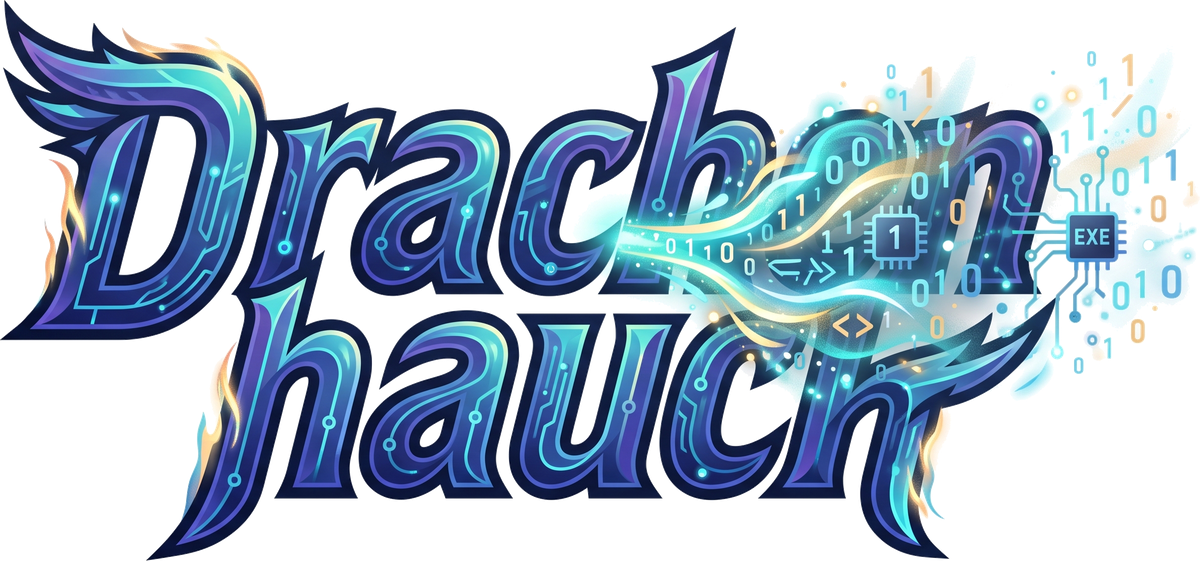
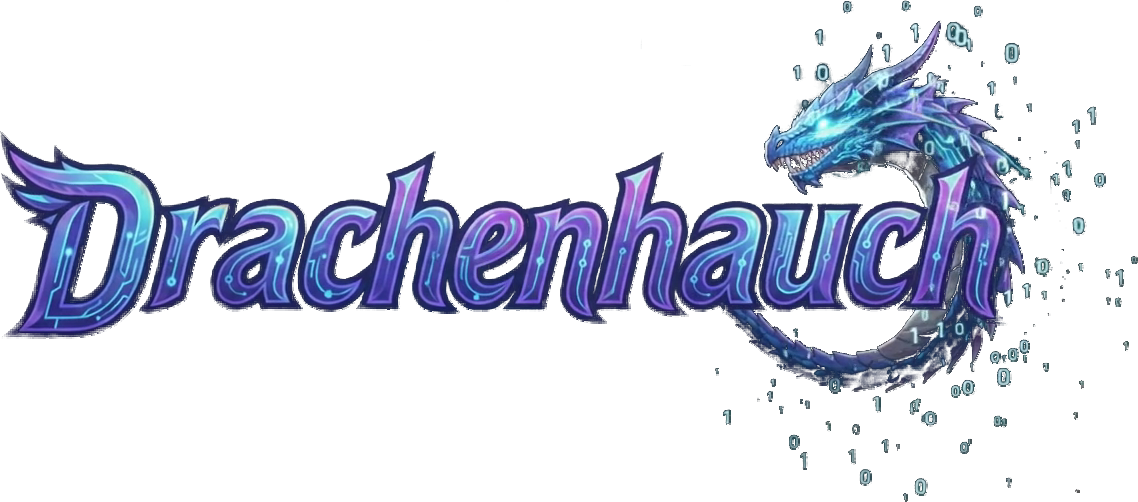
Neuer Schriftzug aus dem letzten Vorspann-Bild, Baum-Kaestchen nur auf Wunsch, IMAGE_COLOR_TO_ALPHA
- daten/bilder/schriftzug.png: letztes Bild von vorspann_2.mp4, mit weicher
  Helligkeitsmaske freigestellt (PNG mit Alpha, 1138x502); erzeugt von
  tools/schriftzug.dh. Die IDE passt ihn unverzerrt in seinen Kasten ein.
- Projektbaum: Kaestchen nur auf Wunsch (Datei-Menue, Einstellungen,
  Palette; `baum_haken` in der ide.json). Ausblenden nimmt die Haken weg.
- Neu IMAGE_COLOR_TO_ALPHA(bild, farbe [, schwelle]) wie "Farbe zu Alpha"
  in GIMP (leinwand::farbe_zu_alpha mit Rust-Tests).

diff --git a/rust/drachenhauch_runtime/src/leinwand.rs b/rust/drachenhauch_runtime/src/leinwand.rs
@@ -316,6 +316,71 @@ impl NaechsteZahl for f32 {
     }
 }
 
+/// Eine Hintergrundfarbe in Durchsichtigkeit verwandeln (IMAGE_COLOR_TO_ALPHA),
+/// wie "Farbe zu Alpha" in GIMP: jeder Punkt wird als Mischung aus `bg` und
+/// einer Vordergrundfarbe gedeutet, die Deckkraft ist der kleinste Anteil,
+/// der reicht, und die Farbe wird "entmischt". Ueber `bg` gelegt ergibt das
+/// Ergebnis also wieder genau das Bild -- aber ein weicher Schein bleibt
+/// ein weicher Schein, statt als dunkler Rand stehen zu bleiben, wie bei einem
+/// harten Freistellen. `schwelle` (0..1) nimmt schwache Reste weg: was darunter
+/// liegt, wird ganz durchsichtig, darueber wird auf 0..1 gestreckt.
+/// `px` ist RGBA, eine vorhandene Deckkraft wird mitgenommen.
+pub fn farbe_zu_alpha(px: &mut [u8], bg: [u8; 3], schwelle: f32) {
+    let s = schwelle.clamp(0.0, 0.99);
+    let b = [bg[0] as f32 / 255.0, bg[1] as f32 / 255.0, bg[2] as f32 / 255.0];
+    for p in px.chunks_exact_mut(4) {
+        let c = [p[0] as f32 / 255.0, p[1] as f32 / 255.0, p[2] as f32 / 255.0];
+        let mut a = 0.0f32;
+        for i in 0..3 {
+            let t = if c[i] > b[i] { (c[i] - b[i]) / (1.0 - b[i]).max(1e-6) }
+                    else if c[i] < b[i] { (b[i] - c[i]) / b[i].max(1e-6) }
+                    else { 0.0 };
+            a = a.max(t);
+        }
+        let a = a.min(1.0);
+        if a > 0.0 {
+            for i in 0..3 {
+                let v = ((c[i] - b[i]) / a + b[i]).clamp(0.0, 1.0);
+                p[i] = (v * 255.0).round() as u8;
+            }
+        }
+        let a2 = if s > 0.0 { ((a - s) / (1.0 - s)).clamp(0.0, 1.0) } else { a };
+        p[3] = (a2 * p[3] as f32).round() as u8;
+    }
+}
+
+#[cfg(test)]
+mod farbe_alpha_tests {
+    use super::farbe_zu_alpha;
+
+    #[test]
+    fn hintergrund_wird_durchsichtig_und_mischungen_halb() {
+        // schwarz auf schwarz, weiss auf schwarz, halbes grau auf schwarz
+        let mut px = vec![0, 0, 0, 255,  255, 255, 255, 255,  128, 128, 128, 255];
+        farbe_zu_alpha(&mut px, [0, 0, 0], 0.0);
+        assert_eq!(px[3], 0);
+        assert_eq!(&px[4..8], &[255, 255, 255, 255]);
+        // Grau = weiss mit halber Deckkraft.
+        assert_eq!(&px[8..11], &[255, 255, 255]);
+        assert!((px[11] as i32 - 128).abs() <= 1);
+    }
+
+    #[test]
+    fn schwelle_nimmt_schwache_reste_weg() {
+        let mut px = vec![20, 20, 20, 255,  255, 255, 255, 255];
+        farbe_zu_alpha(&mut px, [0, 0, 0], 0.15);
+        assert_eq!(px[3], 0);
+        assert_eq!(px[7], 255);
+    }
+
+    #[test]
+    fn vorhandene_deckkraft_bleibt_anteilig() {
+        let mut px = vec![255, 0, 0, 100];
+        farbe_zu_alpha(&mut px, [0, 0, 0], 0.0);
+        assert_eq!(px[3], 100);
+    }
+}
+
 #[cfg(test)]
 mod tests {
     use super::*;

diff --git a/rust/drachenhauch_runtime/src/vm.rs b/rust/drachenhauch_runtime/src/vm.rs
@@ -10154,6 +10154,13 @@ wie viele Plaetze gelten", i + 1)),
             "image_contrast" => Value::Int(g!().image_contrast(gi(a,0,"IMAGE_CONTRAST")?, need_f(a,1,"IMAGE_CONTRAST")? as f32)?),
             "image_grayscale" => Value::Int(g!().image_grayscale(gi(a,0,"IMAGE_GRAYSCALE")?)?),
             "image_invert" => Value::Int(g!().image_invert(gi(a,0,"IMAGE_INVERT")?)?),
+            "image_color_to_alpha" => {
+                const F: &str = "IMAGE_COLOR_TO_ALPHA";
+                if a.len() != 2 && a.len() != 3 { return Err(format!("{}: erwartet (bild, farbe [, schwelle])", F)); }
+                let s = if a.len() == 3 { need_f(a, 2, F)? as f32 } else { 0.0 };
+                if !(0.0..1.0).contains(&s) { return Err(format!("{}: die Schwelle liegt zwischen 0 und 1 (nicht {})", F, s)); }
+                Value::Int(g!().image_color_to_alpha(gi(a, 0, F)?, gi(a, 1, F)?, s)?)
+            }
             "image_replace_color" => Value::Int(g!().image_replace_color(gi(a,0,"IMAGE_REPLACE_COLOR")?, gi(a,1,"IMAGE_REPLACE_COLOR")?, gi(a,2,"IMAGE_REPLACE_COLOR")?)?),
             "image_draw_line" => { g!().image_draw_line(gi(a,0,"IMAGE_DRAW_LINE")?, gi(a,1,"IMAGE_DRAW_LINE")? as i32, gi(a,2,"IMAGE_DRAW_LINE")? as i32, gi(a,3,"IMAGE_DRAW_LINE")? as i32, gi(a,4,"IMAGE_DRAW_LINE")? as i32, gi(a,5,"IMAGE_DRAW_LINE")?)?; Value::Nil }
             "image_draw_circle" => { g!().image_draw_circle(gi(a,0,"IMAGE_DRAW_CIRCLE")?, gi(a,1,"IMAGE_DRAW_CIRCLE")? as i32, gi(a,2,"IMAGE_DRAW_CIRCLE")? as i32, gi(a,3,"IMAGE_DRAW_CIRCLE")? as i32, gi(a,4,"IMAGE_DRAW_CIRCLE")?)?; Value::Nil }

diff --git a/rust/drachenhauch_runtime/src/graphics.rs b/rust/drachenhauch_runtime/src/graphics.rs
@@ -3925,6 +3925,17 @@ moeglich -- bekam {},{},{},{}", r, g, b, al));
         img.color_invert();
         self.push_tex_from_image(img)
     }
+    /// IMAGE_COLOR_TO_ALPHA(bild, farbe [, schwelle]) -> neues Bild (siehe
+    /// `leinwand::farbe_zu_alpha`).
+    pub fn image_color_to_alpha(&mut self, idx: i64, farbe: i64, schwelle: f32) -> Result<i64, String> {
+        let mut img = self.src_image(idx, "IMAGE_COLOR_TO_ALPHA")?;
+        img.set_format(raylib::consts::PixelFormat::PIXELFORMAT_UNCOMPRESSED_R8G8B8A8);
+        let n = (img.width.max(0) as usize) * (img.height.max(0) as usize) * 4;
+        let px: &mut [u8] = unsafe { std::slice::from_raw_parts_mut(img.data as *mut u8, n) };
+        let v = farbe as u32;
+        crate::leinwand::farbe_zu_alpha(px, [((v >> 16) & 0xFF) as u8, ((v >> 8) & 0xFF) as u8, (v & 0xFF) as u8], schwelle);
+        self.push_tex_from_image(img)
+    }
     pub fn image_replace_color(&mut self, idx: i64, from: i64, to: i64) -> Result<i64, String> {
         let mut img = self.src_image(idx, "IMAGE_REPLACE_COLOR")?;
         img.color_replace(col(from), col(to));

diff --git a/docs/ide.md b/docs/ide.md
@@ -70,13 +70,13 @@ kann, steht darunter vollständig, ohne Stände.
 
 | Bereich | Was geht | Kürzel |
 |---|---|---|
-| Start | Willkommensseite, solange kein Reiter offen ist: oben der Drachenhauch-Schriftzug (aus `daten/bilder/` neben `ide/`; das Logo dort wird auch das Fenstersymbol, ohne die Bilder steht der Titel als Text da), Neu, Öffnen, Beispiele, die zuletzt geöffneten Dateien (Doppelklick), die wichtigsten Kürzel. Vor allem anderen läuft der **Vorspann** (jede `.mp4` in `daten/video/`, eingepasst mit schwarzen Rändern): jede Taste und jeder Klick überspringt ihn, das Kreuz beendet die IDE; abschalten mit „Vorspann beim Start“ in den Einstellungen (`vorspann` in der ide.json). **Welcher** läuft, wählt die Klappliste „Welcher Vorspann“ daneben (`vorspann_datei`): jedes Video dort, benannt nach der Datei (`vorspann_2.mp4` heißt „Vorspann 2“), oder „Abwechselnd“ -- dann kommt bei jedem Start der nächste (`vorspann_zuletzt`). [Ansehen] spielt den gewählten gleich ab. Ein neues Video in `daten/video/` legen genügt, damit es in der Liste steht. Die Sitzung kommt beim nächsten Start wieder (offene Dateien, aktiver Reiter), ebenso Thema und Schriftgröße | |
+| Start | Willkommensseite, solange kein Reiter offen ist: oben der Drachenhauch-Schriftzug (aus `daten/bilder/` neben `ide/`; das Logo dort wird auch das Fenstersymbol, ohne die Bilder steht der Titel als Text da), Neu, Öffnen, Beispiele, die zuletzt geöffneten Dateien (Doppelklick), die wichtigsten Kürzel. Vor allem anderen läuft der **Vorspann** (jede `.mp4` in `daten/video/`, eingepasst mit schwarzen Rändern): jede Taste und jeder Klick überspringt ihn, das Kreuz beendet die IDE; abschalten mit „Vorspann beim Start“ in den Einstellungen (`vorspann` in der ide.json). **Welcher** läuft, wählt die Klappliste „Welcher Vorspann“ daneben (`vorspann_datei`): jedes Video dort, benannt nach der Datei (`vorspann_2.mp4` heißt „Vorspann 2“), oder „Abwechselnd“ -- dann kommt bei jedem Start der nächste (`vorspann_zuletzt`). [Ansehen] spielt den gewählten gleich ab. Ein neues Video in `daten/video/` legen genügt, damit es in der Liste steht. Der **Schriftzug** der Willkommensseite und des Info-Fensters (`daten/bilder/schriftzug.png`) ist das letzte Bild von `vorspann_2.mp4`, freigestellt von `tools/schriftzug.dh`; die IDE passt ihn unverzerrt in seinen Kasten ein. Die Sitzung kommt beim nächsten Start wieder (offene Dateien, aktiver Reiter), ebenso Thema und Schriftgröße | |
 | Dateien | Neu, Öffnen, Datei im Projekt öffnen (Wähler mit unscharfem Filter: `spred` findet `189_sprite_editor.dh`; dazu die zuletzt geöffneten), Zuletzt geöffnet (Untermenü), Sichern, Sichern unter, Reiter schließen und wieder öffnen (Strg+Umschalt+T); bis zu 12 Reiter; Rückfrage bei ungesicherten Änderungen; Listing drucken über einen Druckdialog (Drucker, Kopien, **Schriftgröße, Rand, Zeilennummern, nur die Auswahl** -- gemerkt, und die PDF nimmt dieselben) oder als PDF neben die Quelle (Vorgabe: Courier 9 pt, 20 mm Rand, 66 Zeilen je Seite, Zeilennummern, Kopfzeile mit Seitenzahl; die Zeilenbreite wird an der Schrift gemessen) | Strg+N, Strg+O, Strg+Umschalt+O, Strg+S, Strg+W, Strg+Q, Strg+P |
 | Bearbeiten | **Suchleiste** (bleibt offen: Suchfeld mit Weiter/Zurück und Trefferzahl „3 von 12“, Schalter **Groß/klein**, **Ganzes Wort** und **Ausdruck**, alle Treffer im Code eingefärbt; tippen springt zum ersten Treffer, Enter/Umschalt+Enter weiter/zurück, ESC schließt), Ersetzen **einzeln** (ersetzt den markierten Treffer und springt weiter — so sieht man jede Stelle vorher) oder **alle** (ein Schritt für Strg+Z; mit Ausdruck gelten `\1`-Rückverweise, ohne bleibt ein Rückstrich ein Rückstrich), Gehe zu Zeile, Suche im Projekt (alle `.dh` im Projektordner, Treffer unten rechts, Doppelklick öffnet), mit denselben drei Schaltern wie die Suchleiste (sie gelten für Suchen, Ersetzen und Projektsuche gleich), TODO/FIXME-Liste (dieselbe Suche), Befehlspalette (tippen filtert, **Pfeile** wählen, Enter führt aus) | Strg+F, F3, Umschalt+F3, Strg+H, Strg+Umschalt+1, Strg+Alt+Enter, Alt+C, Alt+W, Strg+G, Strg+Umschalt+F, Strg+Umschalt+M, Strg+Umschalt+P |
 | Git | Wer hat das geschrieben (`git blame`, Datum und Person je Zeile), was habe ich geändert (`git diff` farbig im Fenster), Verlauf dieser Datei (`git log`); die geänderten Zeilen tragen eine Marke am Rand (nach dem Sichern neu gefragt, nicht je Bild) | Strg+Umschalt+B, Strg+Umschalt+D |
 | Schreiben | Umbenennen eines Symbols über die ganze Datei (`CODE_RENAME$`: ganze Wörter, Kommentare und Zeichenketten bleiben; ein krummer Name ändert nichts) — und die **Formulare ziehen mit**: eine `.dhform` nennt ihre Rückrufe beim Namen, und wer das Unterprogramm umbenennt und die Datei stehen lässt, hat einen Knopf, der nichts mehr tut, Schnipsel einfügen (13 Gerüste, `\|` sagt wohin die Marke gehört, die Einrückung der Zeile wird übernommen), eine Marke auf jede Fundstelle des Wortes — danach ändert ein Tippen alle; Alt+Klick legt eine Marke dazu, ESC räumt sie weg. Signaturhilfe: steht die Marke in einer Argumentliste, zeigt die Statuszeile die Signatur des Aufrufs und die Nummer des Arguments | Umschalt+F6, Strg+J, Strg+Umschalt+L |
 | Reiter | Jeder Reiter hat ein **Kreuz**, die mittlere Maustaste schließt ihn auch. Trägt er ungesicherte Änderungen, wird gefragt (Sichern / Verwerfen / Abbrechen) — das galt vorher nur beim Beenden, Strg+W nahm sie wortlos mit. **Andere Reiter schließen** lässt nur den vorderen stehen | Strg+W, Strg+Umschalt+W |
-| Dateiliste | **Häkchen schränken das Projekt ein**: ist etwas angehakt, arbeitet jeder Umbau (Umbenennen, Ersetzen im Projekt, Verschieben), die Projektsuche und das Symbolverzeichnis nur auf dieser Menge -- ein angehakter **Ordner** nimmt alles darunter mit (bis 2026-09-27 machte er das Projekt leer); ohne Haken gilt das ganze Projekt. Der Tooltip über dem Baum sagt es — die Beschriftung über dem Baum sagt es, `Datei → Haken im Projektbaum entfernen` räumt sie ab. Der Projektbaum ist seit Stand 24 ein `GUI_FILETREE`: er liest den Ordner selbst und nur die Äste, die offen sind. Ordner stehen oben und klappen auf Klick auf; eine Datei, die ein anderes Programm anlegt, steht nach spätestens zwei Sekunden da. Strg+Klick sammelt, Umschalt+Klick spannt einen Bereich; **Gewaehlte Dateien oeffnen** macht aus allen Reiter. Beim Sammeln geht noch nichts auf — sonst käme mit jedem Klick ein Reiter dazu, den niemand wollte | Strg+Umschalt+E |
+| Dateiliste | **Häkchen schränken das Projekt ein** (nur auf Wunsch sichtbar: `Datei → Kästchen im Projektbaum zeigen`, in den Einstellungen oder in der Palette; `baum_haken` in der ide.json -- beim Ausblenden fallen die Haken weg, eine unsichtbare Einschränkung wäre eine Falle): ist etwas angehakt, arbeitet jeder Umbau (Umbenennen, Ersetzen im Projekt, Verschieben), die Projektsuche und das Symbolverzeichnis nur auf dieser Menge -- ein angehakter **Ordner** nimmt alles darunter mit (bis 2026-09-27 machte er das Projekt leer); ohne Haken gilt das ganze Projekt. Der Tooltip über dem Baum sagt es — die Beschriftung über dem Baum sagt es, `Datei → Haken im Projektbaum entfernen` räumt sie ab. Der Projektbaum ist seit Stand 24 ein `GUI_FILETREE`: er liest den Ordner selbst und nur die Äste, die offen sind. Ordner stehen oben und klappen auf Klick auf; eine Datei, die ein anderes Programm anlegt, steht nach spätestens zwei Sekunden da. Strg+Klick sammelt, Umschalt+Klick spannt einen Bereich; **Gewaehlte Dateien oeffnen** macht aus allen Reiter. Beim Sammeln geht noch nichts auf — sonst käme mit jedem Klick ein Reiter dazu, den niemand wollte | Strg+Umschalt+E |
 | Einstellungen | Strg+U zeigt alle Schalter an einer Stelle (Thema, Umbruch, Karte, geänderte Zeilen, reguläre Ausdrücke, Vorschlagsliste, Einrückungslinien, Gerüst beim Tippen, Vorschau vor dem Umbau, **Klammern schließen**, **beim Sichern formatieren** -- aus per Vorgabe, nur `.dh`, nie beim automatischen Sichern, und was sich nicht lesen lässt, wird gesichert wie es dasteht --, Schriftgröße des Codes, **Schrift der Listen** -- Gliederung, Ausgabe, Probleme, Vorgabe 18 -- und **Schrift des Handbuchs**, Vorgabe 16, automatisches Sichern). Sie wirken **sofort**, ohne Übernehmen — ein Thema, das man erst nach dem Schließen sieht, wählt man blind; im Menü stehen sie weiter dort, wo man sie sucht | Strg+U |
 | Zeilen | Alles auf ganzen Zeilen, der Auswahl oder der Zeile der Marke, jeder Handgriff ein eigener Undo-Schritt: Kommentar umschalten, Zeile duplizieren, Zeile löschen, Zeilen nach oben/unten, Ein-/Ausrücken (Tab gehört dem Feld selbst), Dokument formatieren (`CODE_FORMAT$`, derselbe Formatierer wie `dhrt fmt`; bei einem Syntaxfehler bleibt alles stehen), Schnipsel einfügen (Strg+J füllt den Filter mit dem Wortanfang links der Marke: wer `for` getippt hat, hat die FOR-Schleife vor sich; **oder einfach `for` tippen und Tabulator** — jeder Schnipsel hat ein kurzes Wort, das ihn aufklappt), automatisch sichern nach einstellbarer Ruhe. Eine neue Zeile übernimmt die **Einrückung** der alten und rückt hinter `SUB`, `FOR`, `THEN` und den anderen Blockwörtern eine Stufe weiter ein; ein `END` oder `NEXT` allein in einer Zeile rückt sie zurück. Und das **Gerüst wächst mit**: hinter `IF x > 0 THEN` setzt der Zeilenumbruch das `END IF` gleich mit darunter, die Marke bleibt dazwischen (`CASE`, `ELSE` und `ELSEIF` nicht — sie rücken ein, schließen aber nichts; abschaltbar). Lesezeichen (blaue Marke) setzen und anspringen — vorwärts und rückwärts **über Dateien hinweg**, dazu die Liste aller | Strg+K, Strg+D, Strg+Umschalt+K, Alt+Hoch/Runter, Alt+Rechts/Links, Umschalt+Alt+F, Strg+F2, F2, Umschalt+F2, Alt+F2 |
 | Sprache | Einfärbung des sichtbaren Ausschnitts, dazu jede Fundstelle des Wortes unter der Marke, das zusammengehörende Klammernpaar und ein **Farbfeld** neben jedem `&H`-Literal (ein Klick darauf öffnet den Farbwähler und schreibt die neue Farbe an die Stelle zurück); eine **Symbolspur** über dem Code sagt, in welcher Klasse und welchem Unterprogramm man steht; **Definition hier zeigen** (Alt+F12) blendet zehn Zeilen um die Definition ein, ohne die Stelle zu verlassen; Hilfe zum Wort (Statuszeile), Vervollständigung — sie geht beim Tippen ab drei Zeichen von selbst auf, der Fokus bleibt dabei im Code-Feld, Strg+Leer holt sie herein, und hat der Name eine **Signatur**, kommt sie als Gerüst mit: aus `CIRC` wird `CIRCLE(x, y, r)` mit markiertem `x`, der **Tabulator** geht zum nächsten Argument; Zur Definition, auch per **Strg+Klick** (solange Strg gehalten ist, zeigt der Zeiger über einem Wort die Hand; gesprungen wird beim Loslassen); **Tooltip beim Überfahren**: verweilt die Maus auf einem Wort, steht dessen Hilfe daneben -- dieselbe wie für das Wort unter der Marke, umbrochen und gekürzt, hinter dem Zeilenende keine; Gliederung links unten (SUB/FUNCTION/CLASS mit Methoden, Doppelklick springt; die Art steht in der Farbe der Schlüsselwörter, der Name in der der Namen). **Die Codefarben hängen am Thema**: das helle Thema hat seine eigenen, dunkleren Töne, sonst stünden hellgelbe Zeichenketten auf Weiß | Strg+Leer, F12, Strg+Klick |

diff --git a/docs/module-imgfx.md b/docs/module-imgfx.md
@@ -31,6 +31,7 @@ IMPORT "imgfx"
 | `IMAGE_GRAYSCALE(img)` | IMAGE (neu, in Graustufen) |
 | `IMAGE_INVERT(img)` | IMAGE (neu, Farben invertiert) |
 | `IMAGE_REPLACE_COLOR(img, from, to)` | IMAGE (neu): tauscht **exakt** die Farbe `from` gegen `to` |
+| `IMAGE_COLOR_TO_ALPHA(img, farbe [, schwelle])` | IMAGE (neu): macht eine Hintergrundfarbe durchsichtig wie „Farbe zu Alpha“ in GIMP -- Mischungen werden halb durchsichtig und entmischt, ein Schein bleibt weich; `schwelle` (0..1) nimmt schwache Reste ganz weg. Zum Freistellen von Logos und Sprites vor einfarbigem Grund |
 
 ### In ein Image zeichnen (MUTIEREND — verändert das übergebene IMAGE)
 
